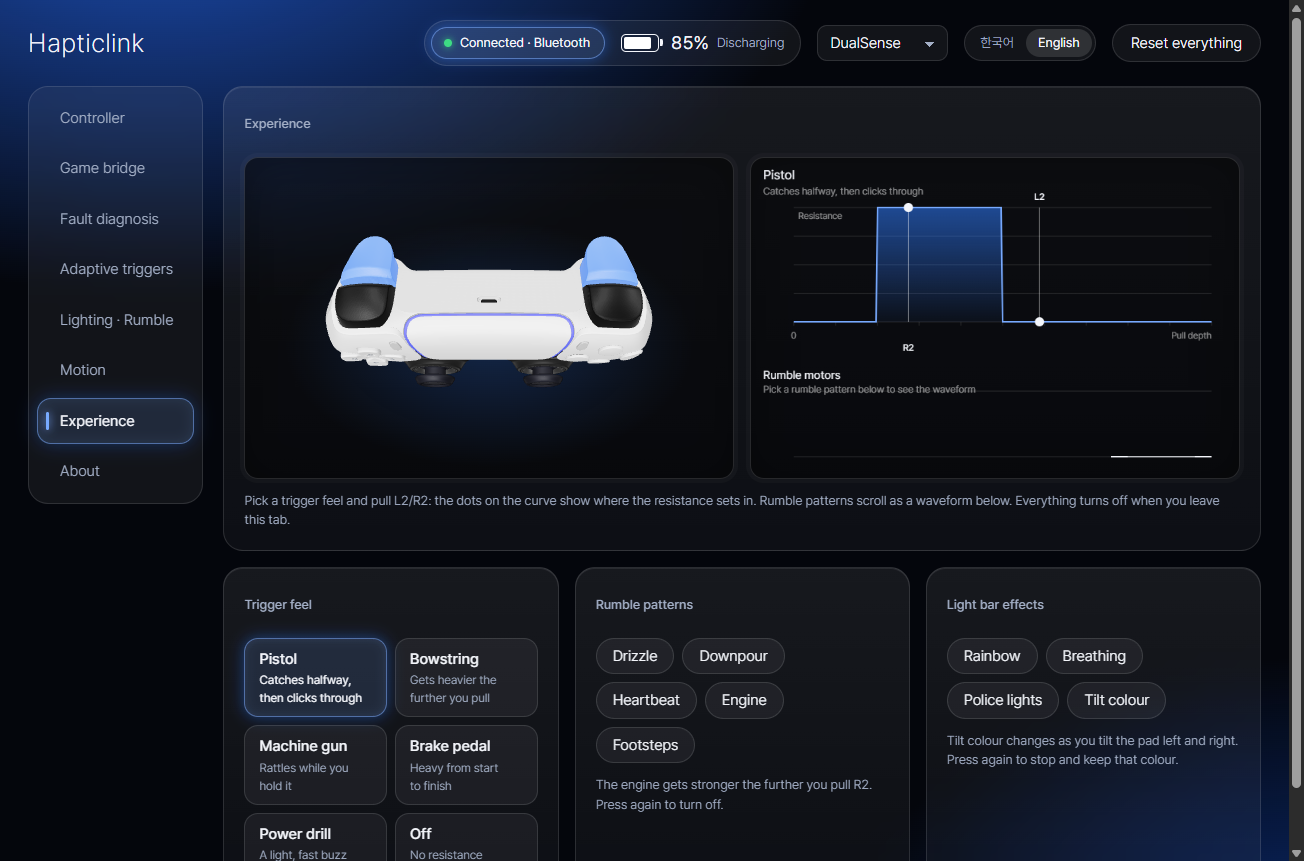
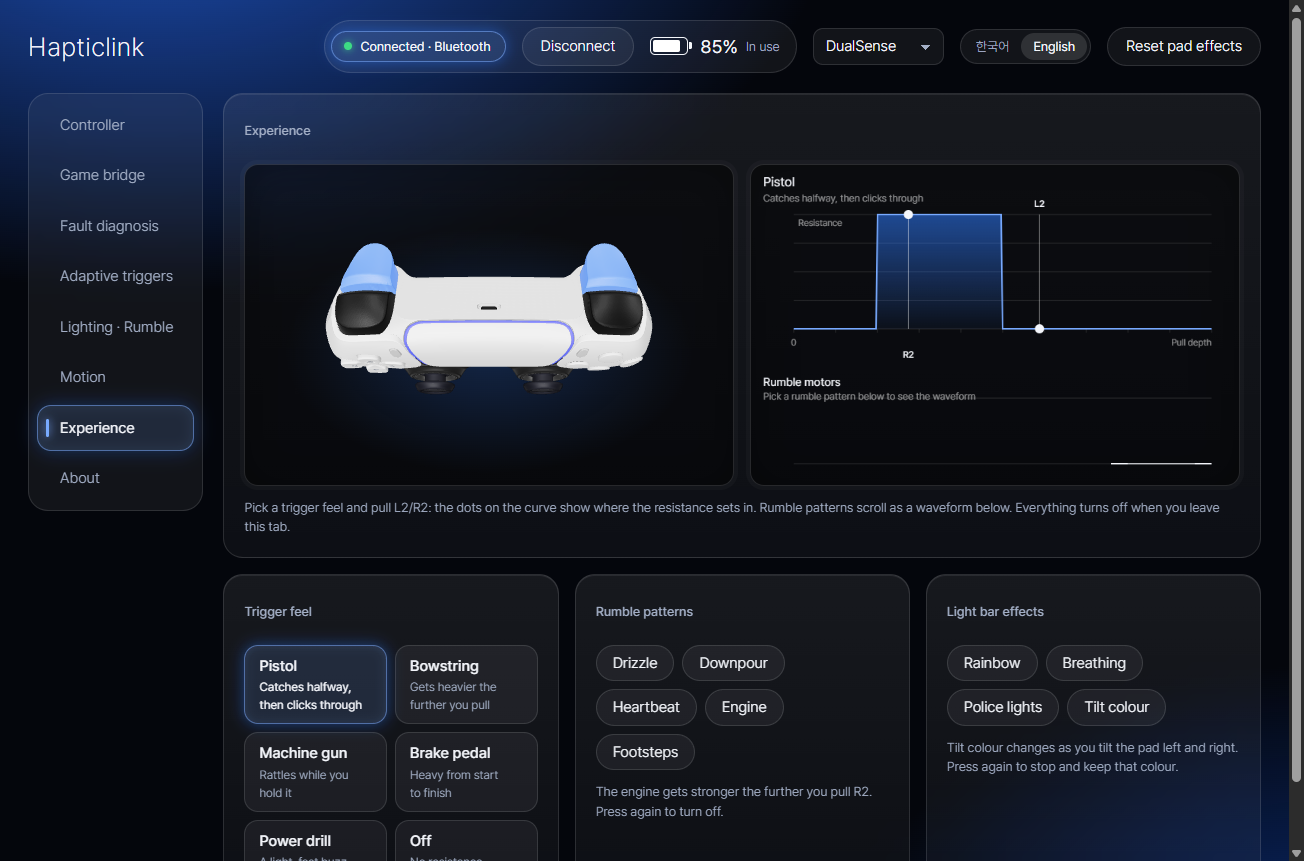
README: 1.0.3, with the overlay, the faster input and new screenshots
A button press now arrives 2.05 ms ahead of the cable on average, with new banners for that and for how little
Hapticlink adds on top of Bluetooth. New sections on the overlay and on letting go of the pad, switching it off and
picking which one to use. Every screenshot is taken again, and the download points at 1.0.3.

diff --git a/README.md b/README.md
@@ -3,7 +3,7 @@
 </p>
 
 <p align="center">
-  <a href="https://github.com/Johyeonwoooooooo/Hapticlink/releases/download/v1.0.2/Hapticlink-Setup-1.0.2.exe"><img src="https://img.shields.io/badge/Download%20for%20Windows%20%C2%B7%201.0.2-2f7bff?style=for-the-badge" alt="Download for Windows · 1.0.2" height="44"></a>
+  <a href="https://github.com/Johyeonwoooooooo/Hapticlink/releases/download/v1.0.3/Hapticlink-Setup-1.0.3.exe"><img src="https://img.shields.io/badge/Download%20for%20Windows%20%C2%B7%201.0.3-2f7bff?style=for-the-badge" alt="Download for Windows · 1.0.3" height="44"></a>
 </p>
 
 <p align="center">
@@ -42,28 +42,42 @@ Hapticlink is a Windows program for the DualSense controller. It does two things
 
 Everything stays on your PC. Hapticlink sends nothing about you or your computer anywhere. It connects outside only when you ask it to update.
 
-## 0.7 ms ahead of the cable, on average
+## 2 ms ahead of the cable, on average
 
-![Average time for a button press to reach the PC, 1.27 ms: ahead of the cable (2.00 ms) and ahead of the dongle (2.28 ms)](docs/latency.jpg)
+![A button press arrives 2.05 ms ahead of the cable on average. Time between inputs sent: Hapticlink 1.25 ms, dongle 2.00 ms, cable 4.00 ms](docs/latency.jpg)
 
-One pad was connected by cable and through Hapticlink at the same time, and the moment each button input reached the PC was compared on both. These are the results over 248 button inputs. The dongle was measured the same way, over 275 button inputs.
+One pad was connected by cable and through Hapticlink at the same time, and the moment each button input reached the PC was compared on both. The dongle was measured the same way.
 
-| | What you need | Wire | Setup | Button press arrives (average) | Inputs that beat the cable |
-| --- | --- | --- | --- | --- | --- |
-| **Hapticlink** | **Nothing** | **No** | **Run the installer** | **about 1.27 ms** | **63%** |
-| Cable | A USB cable | Yes | Plug it in | about 2.00 ms | - |
-| Extra hardware (Pico 2 W dongle) | A Pico 2 W board | No | Buy the board, flash firmware | about 2.28 ms | 27% |
+| | What you need | Wire | Setup | Time between inputs | Against the cable (average) | Inputs that beat the cable |
+| --- | --- | --- | --- | --- | --- | --- |
+| **Hapticlink** | **Nothing** | **No** | **Run the installer** | **1.25 ms** | **2.05 ms sooner** | **94%** |
+| Cable | A USB cable | Yes | Plug it in | 4.00 ms | the baseline | - |
+| Extra hardware (Pico 2 W dongle) | A Pico 2 W board | No | Buy the board, flash firmware | 2.00 ms | 0.28 ms later | 27% |
 
-- The arrival times are worked out, not timed directly. A wired pad sends an input every 4 ms, so a press waits 2.00 ms on average; Hapticlink's figure is that minus the measured difference of 0.73 ms, and the dongle's is that plus its measured difference of 0.28 ms. Time spent inside the pad is the same either way and is left out.
-- By the median it arrived 0.70 ms sooner, and 88% of inputs were within 4 ms of the cable.
-- Hapticlink's processing delay is 1.43 ms (median), and at most 4.01 ms 95% of the time. One frame of a 60 fps game is 16.7 ms.
-- The slowest 5% arrived 3.75 ms later or more, and the latest input arrived 11.53 ms later.
+A wired DualSense reports every 4 ms, and over Bluetooth it reports every 1.25 ms. Hapticlink passes each Bluetooth input on to the game the moment it arrives. So even after the radio and Hapticlink, the wireless input arrives first most of the time.
 
-A wired DualSense reports every 4 ms, and over Bluetooth it reports every 1.25 ms. So even after the radio and Hapticlink, the wireless input arrives first on average. Wireless does stumble now and then, though: 5 inputs in 100 arrived 3.75 ms or more after the cable.
+- **Against the cable** is not a time from the moment of the press. It is how much sooner or later the same input arrived than it did over the cable. Time spent inside the pad is the same either way. By the median it was 2.46 ms sooner.
+- **Time between inputs** is how long passes from one input being sent to the next (median). Shorter means sent more often.
+- Hapticlink was measured over 566 button inputs, the dongle over 275.
 
-The processing delay is the time Hapticlink takes to receive an input and pass it on to the game. It was measured three times, against reading the same pad over Bluetooth directly.
+## As steady as Bluetooth itself
 
-The figures against the cable are one 60-second run each, for Hapticlink (v1.0.1) and for the dongle, on one PC. Your Bluetooth adapter and the radio environment around you can change the figures.
+![Delay Hapticlink adds on top of Bluetooth: 0.09 ms. Extra inputs lost to Hapticlink 0, ahead of the cable or within 4 ms of it 96.8%, latest input 13.80 ms](docs/stability.jpg)
+
+Going through Hapticlink makes no input later and loses none. The same pad was read over Bluetooth directly, side by side, to check.
+
+| | Result |
+| --- | --- |
+| Delay Hapticlink adds | 0.09 ms (median), at most 0.17 ms 95% of the time |
+| Extra inputs lost to Hapticlink | 0 |
+| Inputs ahead of the cable, or within 4 ms of it | 96.8% |
+| Latest input, against the cable | 13.80 ms |
+
+One frame of a 60 fps game is 16.7 ms. Of 566 button inputs, even the latest arrived within one frame.
+
+Wireless is not flawless the way a cable is, though. Bluetooth itself drops an input now and then, and at those moments it is behind the cable: 5 inputs in 100 arrived 1.53 ms or more after the cable.
+
+Every figure is one 60-second run each, for Hapticlink (v1.0.3) and for the dongle, on one PC. Your Bluetooth adapter and the radio environment around you can change the figures.
 
 ## Wireless, with everything a cable gives you
 
@@ -76,6 +90,32 @@ Hapticlink shows the game a wired DualSense and carries everything across to you
 - **Haptic strength**: you can adjust it from 0 to 300%, and it takes effect while you play.
 - **A cable only charges**: you can plug one in mid-game and nothing changes. If you would like the cable's own quality for a session, one button switches to it, and unplugging the cable brings you back to wireless.
 - **It stays out of your way**: it sits quietly in the tray, can start with Windows if you wish, and puts everything back the way it was when you quit.
+
+## The link, shown over your game
+
+![The overlay in four situations: most of the time (green, good), when the link stumbles (amber, fair, and why), with the battery at 20% or less (a red battery), and when you want the detail (inputs a second and the longest delay)](docs/en/overlay.png)
+
+Wireless stumbles now and then. The overlay shows, small and over your game, how the pad's Bluetooth link is doing right now. When input feels off, you can tell at once whether it is the pad.
+
+- **A colour to read at a glance**: green is good, amber is fair, red is poor. When it is fair or poor, the reason is shown beside it.
+- **Battery**: it shows the charge, and turns red at 20% or less.
+- **Only when needed**: set it to "Only when something is wrong" and it stays out of sight, appearing only when the link stumbles or the battery runs low. If you already use another overlay, your screen does not get crowded.
+- **Toggle it from anywhere**: a keyboard shortcut (Ctrl+Alt+H by default) or pad buttons (L1 + R1 + L2 + R2 + the touchpad click by default) switch it on and off in the middle of a game. Both can be changed.
+- **Put it where you like**: drag the grip at its right end to move it, and it snaps to the edges of the screen.
+
+![The overlay settings on the About tab: preview, what it shows, when it shows, size, position, keyboard shortcut and pad buttons](docs/en/overlay-settings.png)
+
+Choose how much it shows, Minimal, Normal or Diagnostic, or make your own. To make your own, drag the pieces up into the preview, drag them into another order, and drag one out to remove it. What you see there is the overlay.
+
+The overlay starts switched off, and is switched on from the About tab. It may not show over a game in exclusive full screen. If so, try the game in borderless window mode.
+
+## Let go of the pad, switch it off, pick which one
+
+![The About tab: the pad to use, powering off the connected pad, the overlay, updating](docs/en/about.png)
+
+- **Disconnect**: *Disconnect*, at the top of the window, makes Hapticlink let go of the pad. The pad stays on, as an ordinary Bluetooth pad. *Connect controller* takes it up again.
+- **Power off**: the About tab switches the connected pad off at once. No need to hold the PS button down after a game. Press the PS button to switch it back on.
+- **Pick a pad**: with several pads connected over Bluetooth, you can say which one Hapticlink uses. If the one you picked is off, it waits for it rather than taking another.
 
 ## A one-minute diagnosis
 
